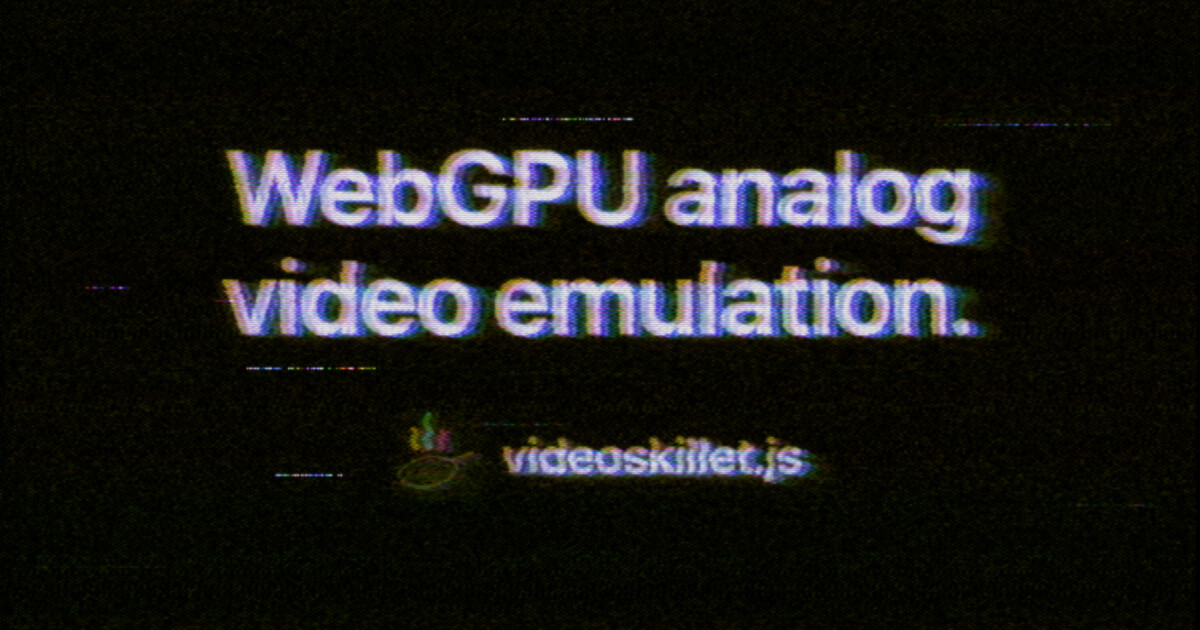
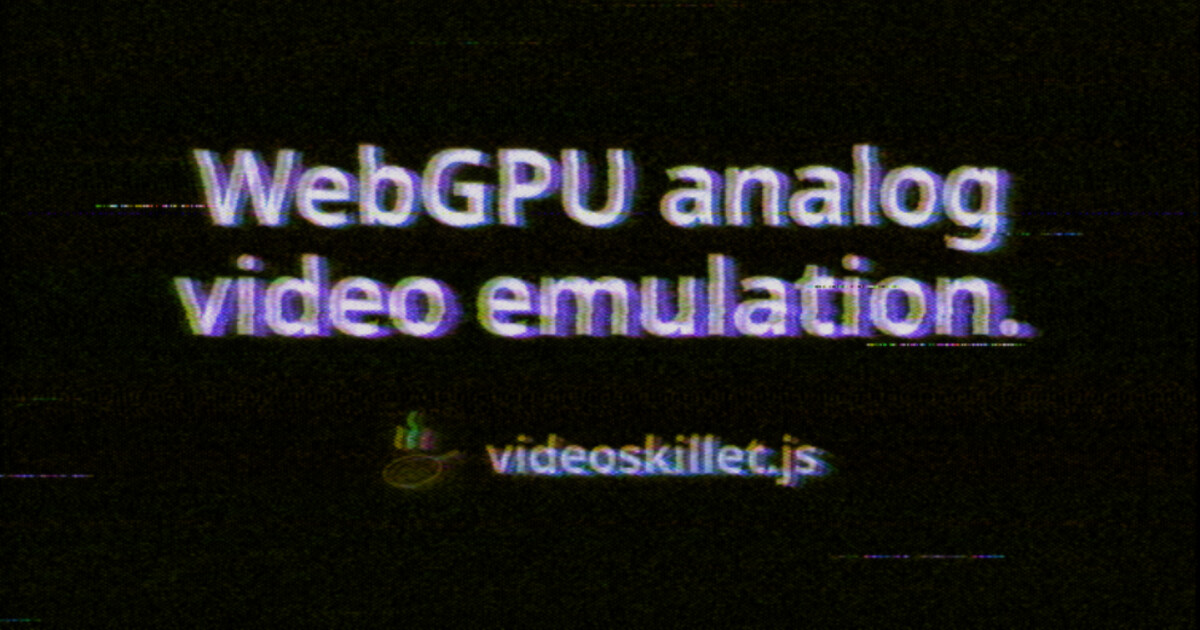
feat(ui): the header says the name, in the picture with the words
The mark and the wordmark were on the link preview only. They are on both
hero plates now, drawn onto the plate with the headline and scanned with it,
so the name arrives carrying the fringe the words carry rather than sitting
over them as chrome.

Where they go is what each crop leaves. The wide header is a letterbox and
height is the scarce axis: a 3440-wide window keeps some 300 of the plate's
1200 rows and the headline is 210 of them, so the lockup goes beside the
words, in the width a letterbox has spare, and the card comes out exactly as
tall as the two lines were alone. The portrait crop is the other way round —
it holds the middle 56% of the width and all of the height — so that one
stacks. The mark is 118 against the wordmark's 60 because the tape crushes
the skillet's greys and size is the only answer to that: at 118 the lockup
column stands 208 tall and the headline still sets the card's height.

The wide plate came back a black rectangle twice on the way here. `load` and
`fonts.ready` both resolve before Chrome composites, so a screenshot behind
them is blank about one time in three, and a blank plate fails nowhere: it
goes through the signal path as a dark picture and lands as a finished file
with nothing in it. So the capture waits two frames of rAF and is read back
before it is kept, and the app-side wait counts lit pixels rather than taking
the brightest — the head-switch band and the dropouts are as bright as type,
[…]

diff --git a/docs/DEVELOPMENT.md b/docs/DEVELOPMENT.md
@@ -340,6 +340,12 @@ Every bullet cost a real afternoon.
   under a running server.
 - **A `file://` image taints the canvas it is drawn on**, so frames are passed
   into the page as `data:` URIs.
+- **`load` and `document.fonts.ready` both resolve before Chrome composites a
+  frame**, so a `screenshot()` behind them comes back a blank rectangle perhaps
+  one time in three. Two frames of `requestAnimationFrame` is what waits for the
+  paint. `heroplate.mjs` also reads the capture back and re-takes it, because a
+  blank plate fails nowhere downstream: it goes through the signal path as a dark
+  picture and lands as a finished file with nothing in it.
 - **Puppeteer writes its throwaway Firefox profile into `$TMPDIR`**, ~85 MB a
   run, and never cleans up after a killed one. On a tmpfs that has filled, the
   launch dies in `createProfile` with `Unknown system error -122` — that is
@@ -688,8 +694,10 @@ link preview are no demo's still any more:
 [`../scripts/heroplate.mjs`](../scripts/heroplate.mjs) sets the headline in the
 h1's own typeface, photographs it, runs the plate through the app and reads the
 canvas back, so the words on the page are a picture of what the program does to
-words. The link-preview card is the same render with the mark and the wordmark
-drawn onto the plate beside them, which is why they carry the same fringe.
+words. The mark and the wordmark go onto every plate with the headline, which is
+why they carry the same fringe — beside the words on the wide header, where a
+letterbox crop has width to spare and no height at all, and under them on the
+portrait and link-preview plates, which have the height and not the width.
 [`../scripts/reel.mjs`](../scripts/reel.mjs) is the carousel, which records the
 **app's own window** instead — the panel, the map and a pointer moving over
 them. That split is the point of the page: the picture is what the program
